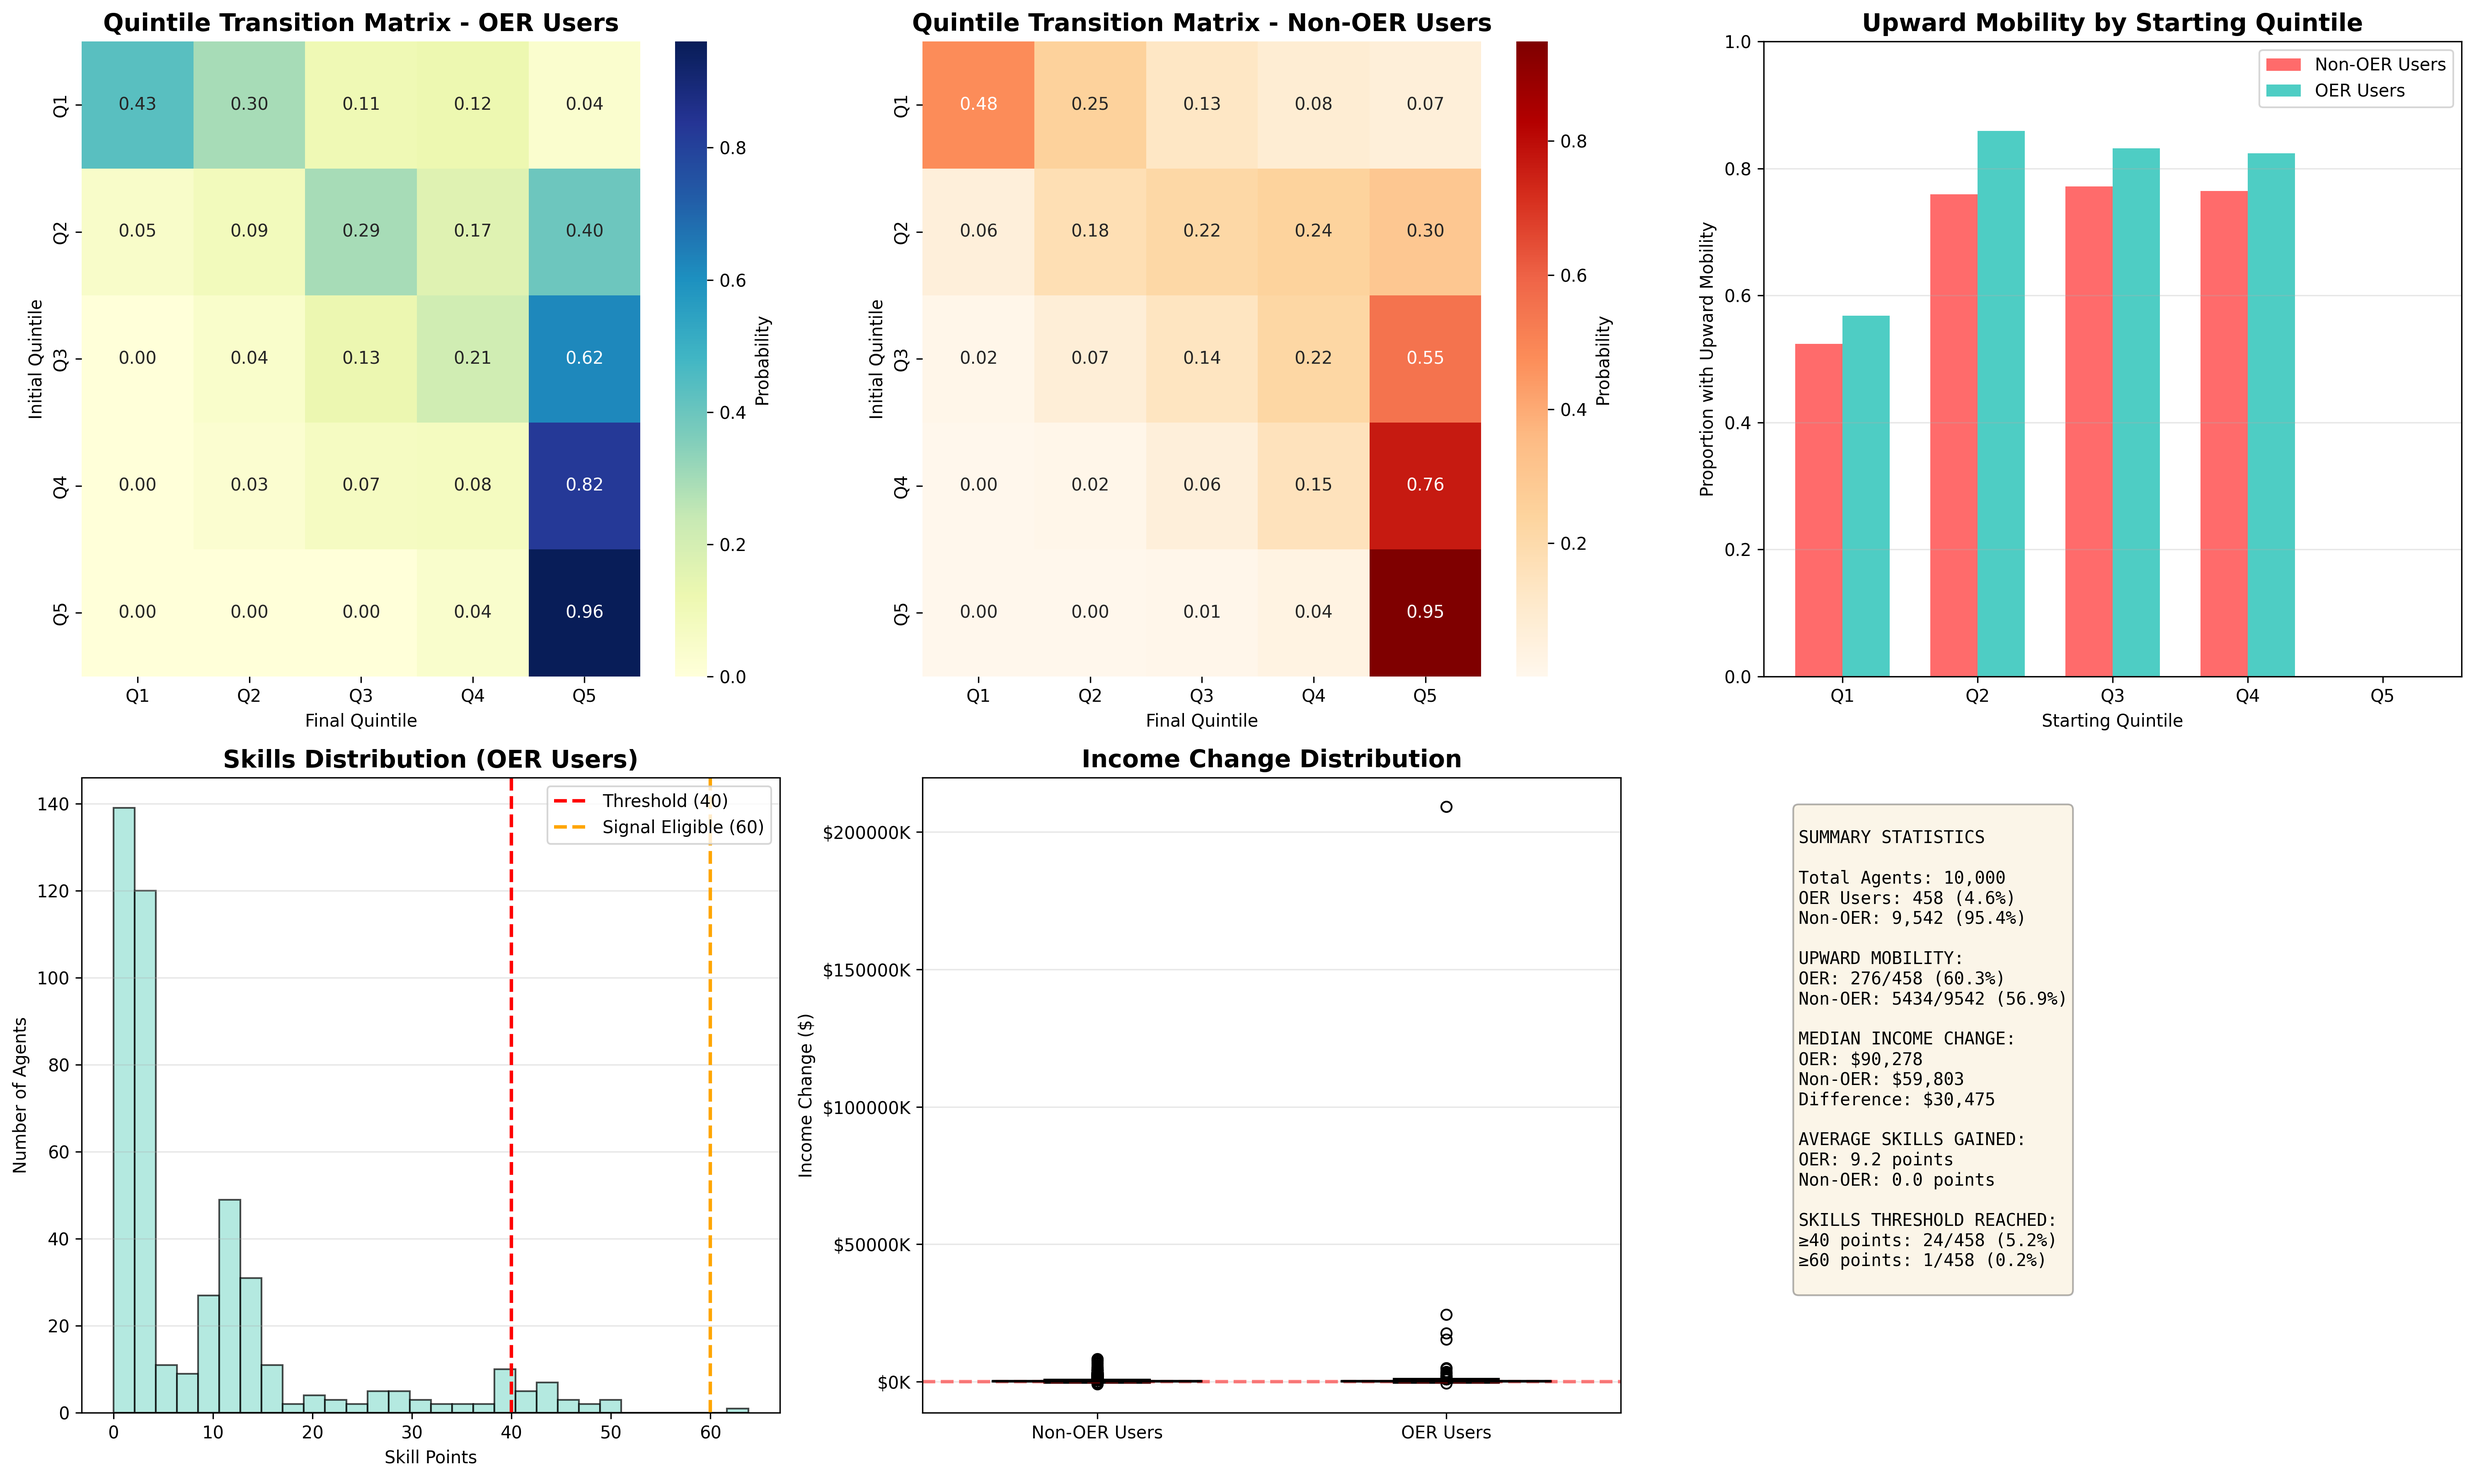
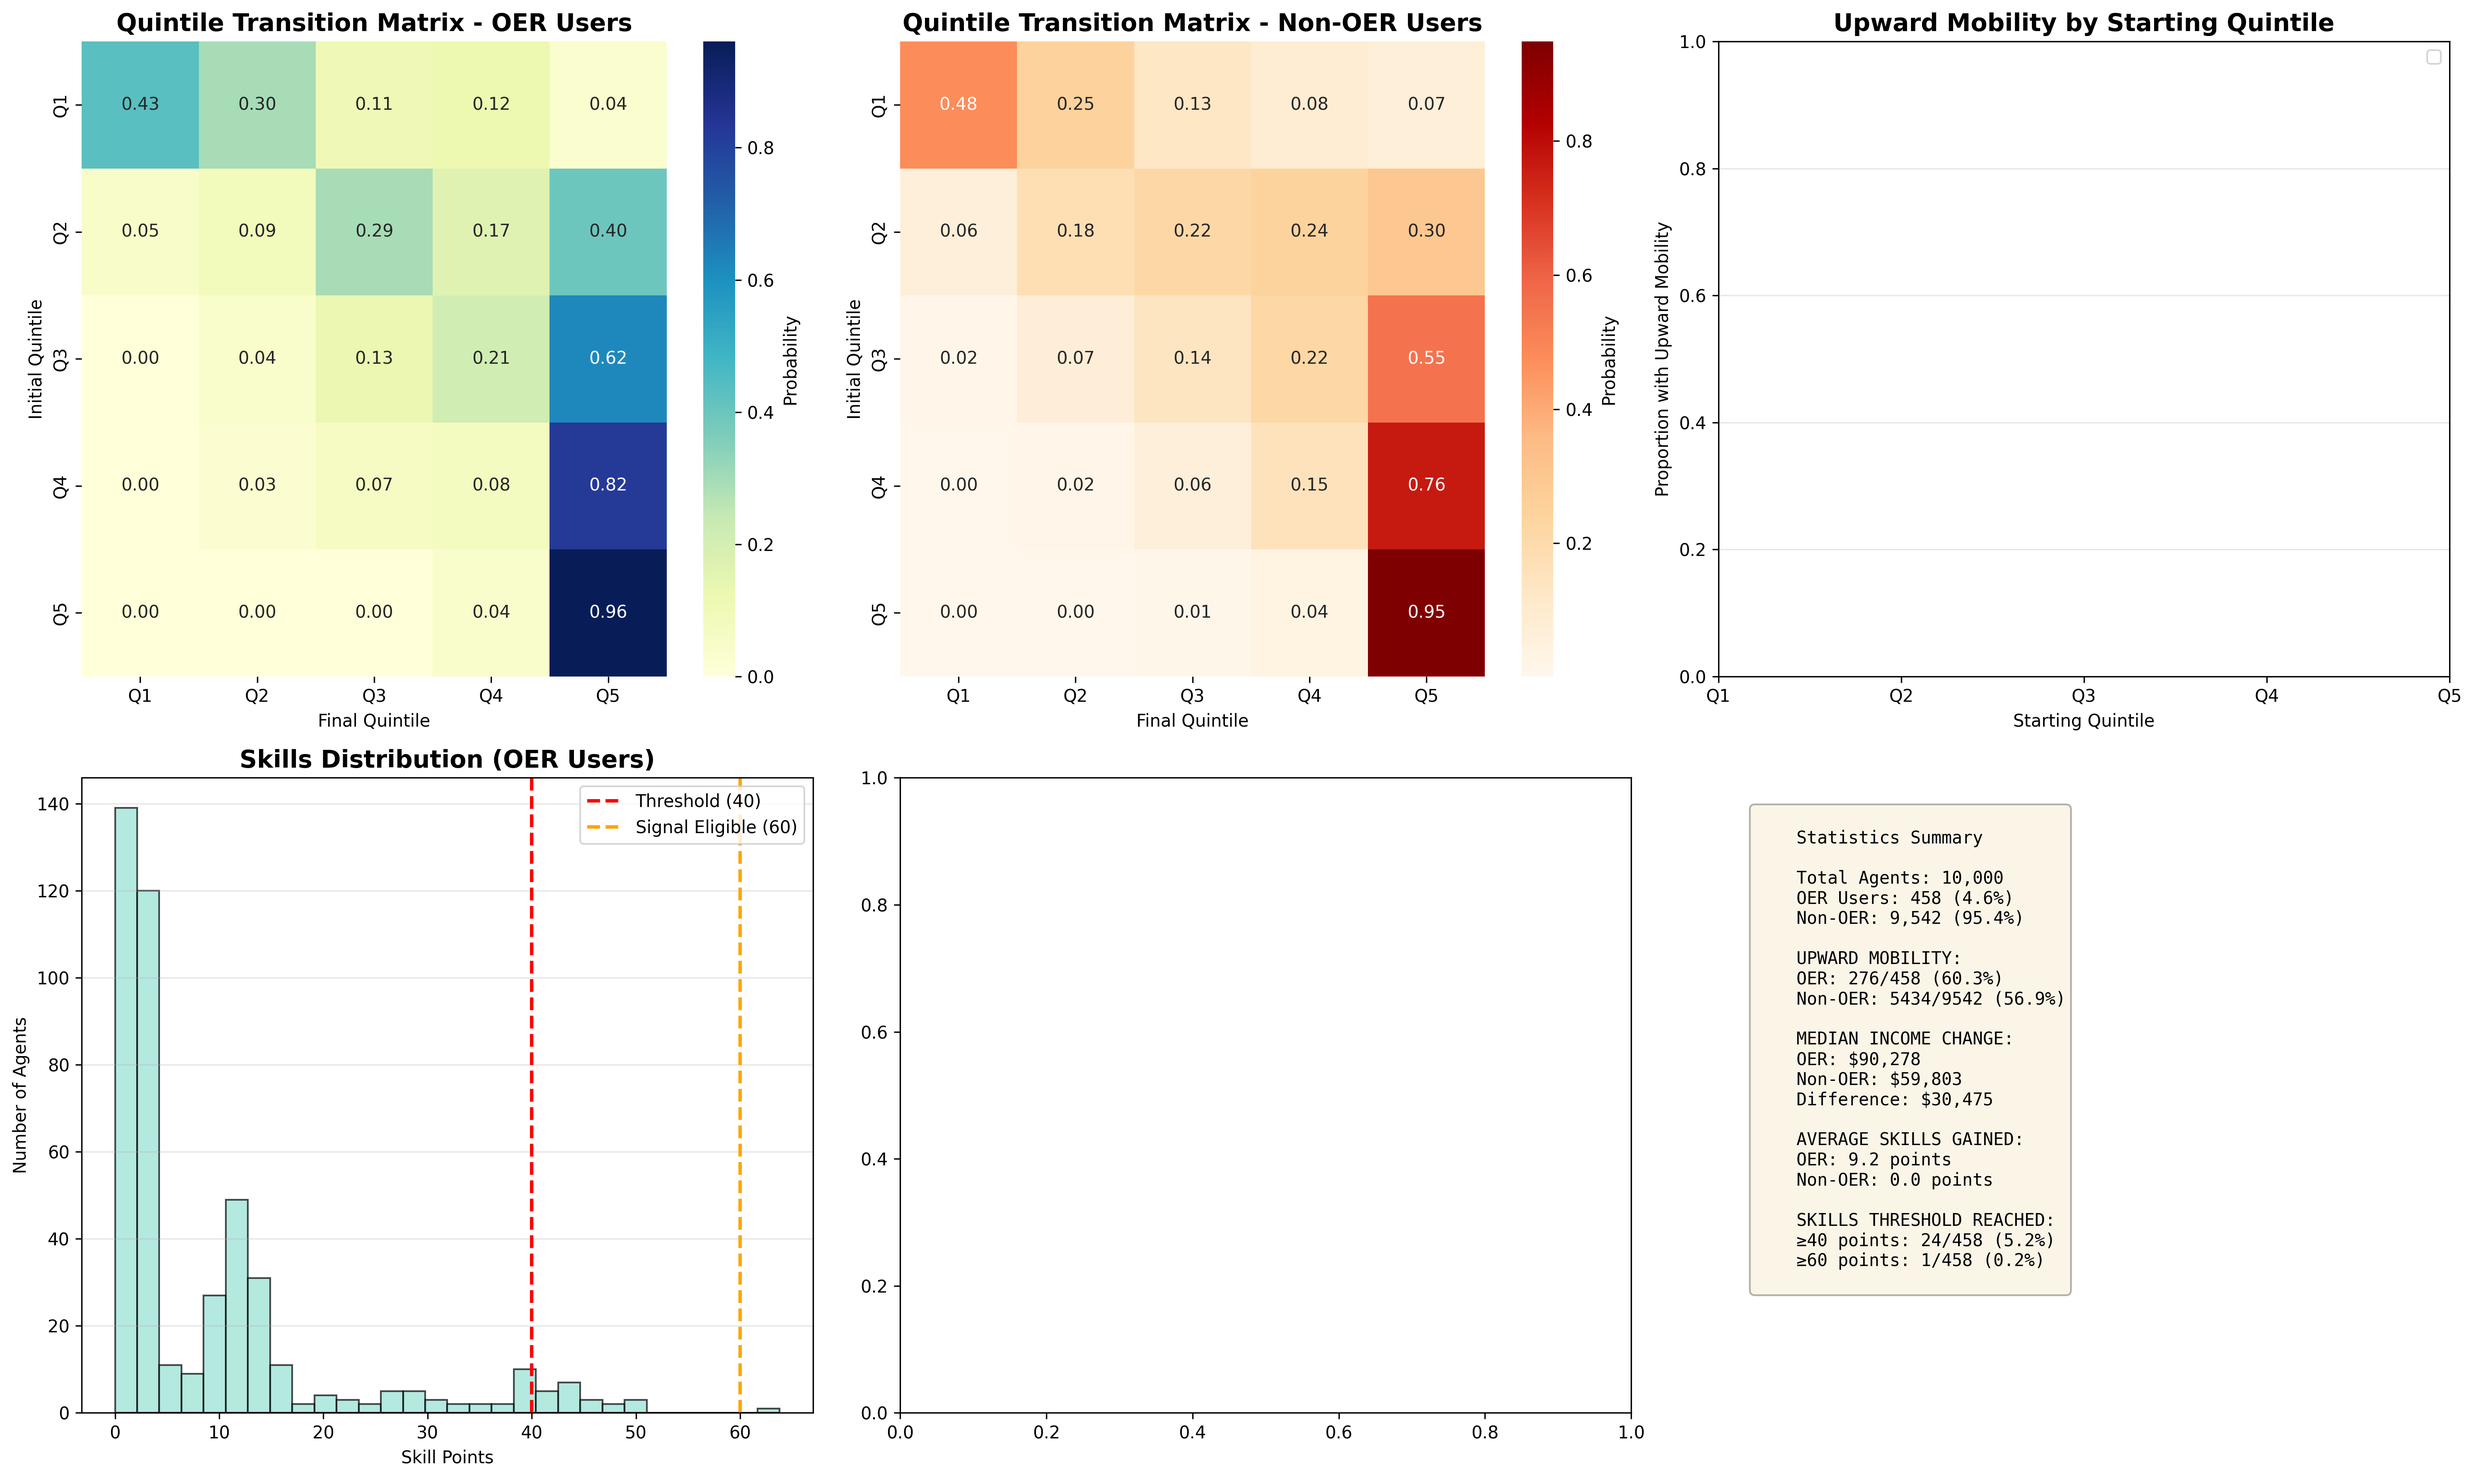
Removed income change dist.

diff --git a/main.py b/main.py
@@ -29,8 +29,8 @@ class Agent:
     quarters_since_job_change: int
     
 class OERSimulation:
-    def __init__(self, n_agents=10000, n_quarters=40, random_seed=42):
-        np.random.seed(random_seed)
+    def __init__(self, n_agents=10000, n_quarters=40, random_seed=2):
+        self.rng = np.random.RandomState(random_seed)
         self.n_agents = n_agents
         self.n_quarters = n_quarters
         self.agents: List[Agent] = []
@@ -69,46 +69,46 @@ class OERSimulation:
         
     def initialize_agents(self):
         for i in range(self.n_agents):
-            age = np.random.uniform(24, 45)
-            household_size = max(1, np.random.normal(2.5, 1.3))
+            age = self.rng.uniform(24, 45)
+            household_size = max(1, self.rng.normal(2.5, 1.3))
             
-            quintile = np.random.choice([0, 1, 2, 3, 4], p=[0.20, 0.20, 0.20, 0.20, 0.20])
+            quintile = self.rng.choice([0, 1, 2, 3, 4], p=[0.20, 0.20, 0.20, 0.20, 0.20])
             income_min, income_max = self.income_quintiles[quintile]
-            income = np.random.uniform(income_min, income_max)
+            income = self.rng.uniform(income_min, income_max)
             
-            employment = np.random.choice(['employed', 'unemployed', 'not_in_lf'], 
+            employment = self.rng.choice(['employed', 'unemployed', 'not_in_lf'], 
                                          p=[0.95, 0.03, 0.02])
             
             if quintile == 0:
-                wealth = np.random.uniform(0, 1000)
+                wealth = self.rng.uniform(0, 1000)
             else:
-                wealth = np.random.exponential(scale=5000 * (quintile + 1))
+                wealth = self.rng.exponential(scale=5000 * (quintile + 1))
             
             internet_probs = [0.78, 0.85, 0.90, 0.95, 0.99]
-            internet_access = np.random.random() < internet_probs[quintile]
+            internet_access = self.rng.random() < internet_probs[quintile]
             
-            education_choice = np.random.choice(
+            education_choice = self.rng.choice(
                 list(self.education_levels.keys()),
                 p=[0.08, 0.27, 0.29, 0.24, 0.12]
             )
             education_multiplier = self.education_levels[education_choice]['multiplier']
             income *= education_multiplier
             
-            study_time_base = max(0, np.random.normal(10, 5))
+            study_time_base = max(0, self.rng.normal(10, 5))
             study_time = study_time_base * (1 - 0.4 * (household_size - 2.5) / 1.3)
             study_time = study_time * (1 + 0.2 * (quintile - 2) / 2)
             study_time = max(0, study_time)
             
-            learning_capacity = np.clip(np.random.normal(1.0, 0.15), 0.7, 1.3)
+            learning_capacity = np.clip(self.rng.normal(1.0, 0.15), 0.7, 1.3)
             
-            oer_aware = np.random.random() < 0.35
+            oer_aware = self.rng.random() < 0.35
             oer_engaged = False
             if oer_aware and internet_access:
-                oer_engaged = np.random.random() < 0.15
+                oer_engaged = self.rng.random() < 0.15
             
             engagement_level = 'none'
             if oer_engaged:
-                engagement_level = np.random.choice(
+                engagement_level = self.rng.choice(
                     list(self.engagement_levels.keys()),
                     p=[0.50, 0.30, 0.15, 0.05]
                 )
@@ -232,7 +232,7 @@ class OERSimulation:
         else:
             credential_discount = 0
         
-        random_shock = np.random.normal(1.0, 0.10)
+        random_shock = self.rng.normal(1.0, 0.10)
         
         income_multiplier = (1 + growth_rate + skill_premium + transition_boost - credential_discount)
         agent.income = agent.income * income_multiplier * random_shock
@@ -241,7 +241,7 @@ class OERSimulation:
     def update_employment(self, agent: Agent, quarter: int):
         job_change_prob = self.calculate_job_change_probability(agent)
         
-        if np.random.random() < job_change_prob:
+        if self.rng.random() < job_change_prob:
             if agent.employment_status == 'unemployed':
                 agent.employment_status = 'employed'
                 median_income = np.median([self.income_quintiles[i][0] + self.income_quintiles[i][1] 
@@ -382,9 +382,9 @@ class OERSimulation:
                 quintile_transitions_oer[i] = quintile_transitions_oer[i] / quintile_transitions_oer[i].sum()
         
         sns.heatmap(quintile_transitions_oer, annot=True, fmt='.2f', cmap='YlGnBu', 
-                   xticklabels=['Q1', 'Q2', 'Q3', 'Q4', 'Q5'],
-                   yticklabels=['Q1', 'Q2', 'Q3', 'Q4', 'Q5'],
-                   ax=axes[0, 0], cbar_kws={'label': 'Probability'})
+                xticklabels=['Q1', 'Q2', 'Q3', 'Q4', 'Q5'],
+                yticklabels=['Q1', 'Q2', 'Q3', 'Q4', 'Q5'],
+                ax=axes[0, 0], cbar_kws={'label': 'Probability'})
         axes[0, 0].set_title('Quintile Transition Matrix - OER Users', fontsize=14, fontweight='bold')
         axes[0, 0].set_xlabel('Final Quintile')
         axes[0, 0].set_ylabel('Initial Quintile')
@@ -398,9 +398,9 @@ class OERSimulation:
                 quintile_transitions_non[i] = quintile_transitions_non[i] / quintile_transitions_non[i].sum()
         
         sns.heatmap(quintile_transitions_non, annot=True, fmt='.2f', cmap='OrRd', 
-                   xticklabels=['Q1', 'Q2', 'Q3', 'Q4', 'Q5'],
-                   yticklabels=['Q1', 'Q2', 'Q3', 'Q4', 'Q5'],
-                   ax=axes[0, 1], cbar_kws={'label': 'Probability'})
+                xticklabels=['Q1', 'Q2', 'Q3', 'Q4', 'Q5'],
+                yticklabels=['Q1', 'Q2', 'Q3', 'Q4', 'Q5'],
+                ax=axes[0, 1], cbar_kws={'label': 'Probability'})
         axes[0, 1].set_title('Quintile Transition Matrix - Non-OER Users', fontsize=14, fontweight='bold')
         axes[0, 1].set_xlabel('Final Quintile')
         axes[0, 1].set_ylabel('Initial Quintile')
@@ -450,51 +450,34 @@ class OERSimulation:
         income_change_oer = oer_users['income_final'] - oer_users['income_initial']
         income_change_non = non_oer_users['income_final'] - non_oer_users['income_initial']
         
-        bp = axes[1, 1].boxplot([income_change_non, income_change_oer], 
-                          labels=['Non-OER Users', 'OER Users'],
-                          patch_artist=True,
-                          widths=0.6)
-        
-        bp['boxes'][0].set_facecolor('#FF6B6B')
-        bp['boxes'][1].set_facecolor('#4ECDC4')
-        
-        for element in ['whiskers', 'fliers', 'means', 'medians', 'caps']:
-            plt.setp(bp[element], color='black', linewidth=1.5)
-        
-        axes[1, 1].set_title('Income Change Distribution', fontsize=14, fontweight='bold')
-        axes[1, 1].set_ylabel('Income Change ($)')
-        axes[1, 1].axhline(0, color='red', linestyle='--', alpha=0.5, linewidth=2)
-        axes[1, 1].grid(True, alpha=0.3, axis='y')
-        axes[1, 1].yaxis.set_major_formatter(plt.FuncFormatter(lambda x, p: f'${x/1000:.0f}K'))
-        
         summary_text = f"""
-SUMMARY STATISTICS
+    Statistics Summary
 
-Total Agents: {len(merged):,}
-OER Users: {len(oer_users):,} ({len(oer_users)/len(merged)*100:.1f}%)
-Non-OER: {len(non_oer_users):,} ({len(non_oer_users)/len(merged)*100:.1f}%)
+    Total Agents: {len(merged):,}
+    OER Users: {len(oer_users):,} ({len(oer_users)/len(merged)*100:.1f}%)
+    Non-OER: {len(non_oer_users):,} ({len(non_oer_users)/len(merged)*100:.1f}%)
 
-UPWARD MOBILITY:
-OER: {(oer_users['quintile_final'] > oer_users['quintile_initial']).sum()}/{len(oer_users)} ({(oer_users['quintile_final'] > oer_users['quintile_initial']).mean()*100:.1f}%)
-Non-OER: {(non_oer_users['quintile_final'] > non_oer_users['quintile_initial']).sum()}/{len(non_oer_users)} ({(non_oer_users['quintile_final'] > non_oer_users['quintile_initial']).mean()*100:.1f}%)
+    UPWARD MOBILITY:
+    OER: {(oer_users['quintile_final'] > oer_users['quintile_initial']).sum()}/{len(oer_users)} ({(oer_users['quintile_final'] > oer_users['quintile_initial']).mean()*100:.1f}%)
+    Non-OER: {(non_oer_users['quintile_final'] > non_oer_users['quintile_initial']).sum()}/{len(non_oer_users)} ({(non_oer_users['quintile_final'] > non_oer_users['quintile_initial']).mean()*100:.1f}%)
 
-MEDIAN INCOME CHANGE:
-OER: ${income_change_oer.median():,.0f}
-Non-OER: ${income_change_non.median():,.0f}
-Difference: ${income_change_oer.median() - income_change_non.median():,.0f}
+    MEDIAN INCOME CHANGE:
+    OER: ${income_change_oer.median():,.0f}
+    Non-OER: ${income_change_non.median():,.0f}
+    Difference: ${income_change_oer.median() - income_change_non.median():,.0f}
 
-AVERAGE SKILLS GAINED:
-OER: {oer_users['skills_final'].mean():.1f} points
-Non-OER: {non_oer_users['skills_final'].mean():.1f} points
+    AVERAGE SKILLS GAINED:
+    OER: {oer_users['skills_final'].mean():.1f} points
+    Non-OER: {non_oer_users['skills_final'].mean():.1f} points
 
-SKILLS THRESHOLD REACHED:
-≥40 points: {(oer_users['skills_final'] >= 40).sum()}/{len(oer_users)} ({(oer_users['skills_final'] >= 40).mean()*100:.1f}%)
-≥60 points: {(oer_users['skills_final'] >= 60).sum()}/{len(oer_users)} ({(oer_users['skills_final'] >= 60).mean()*100:.1f}%)
+    SKILLS THRESHOLD REACHED:
+    ≥40 points: {(oer_users['skills_final'] >= 40).sum()}/{len(oer_users)} ({(oer_users['skills_final'] >= 40).mean()*100:.1f}%)
+    ≥60 points: {(oer_users['skills_final'] >= 60).sum()}/{len(oer_users)} ({(oer_users['skills_final'] >= 60).mean()*100:.1f}%)
         """
         
         axes[1, 2].text(0.05, 0.95, summary_text, transform=axes[1, 2].transAxes,
-                       fontsize=10, verticalalignment='top', fontfamily='monospace',
-                       bbox=dict(boxstyle='round', facecolor='wheat', alpha=0.3))
+                    fontsize=10, verticalalignment='top', fontfamily='monospace',
+                    bbox=dict(boxstyle='round', facecolor='wheat', alpha=0.3))
         axes[1, 2].axis('off')
         
         plt.tight_layout()
